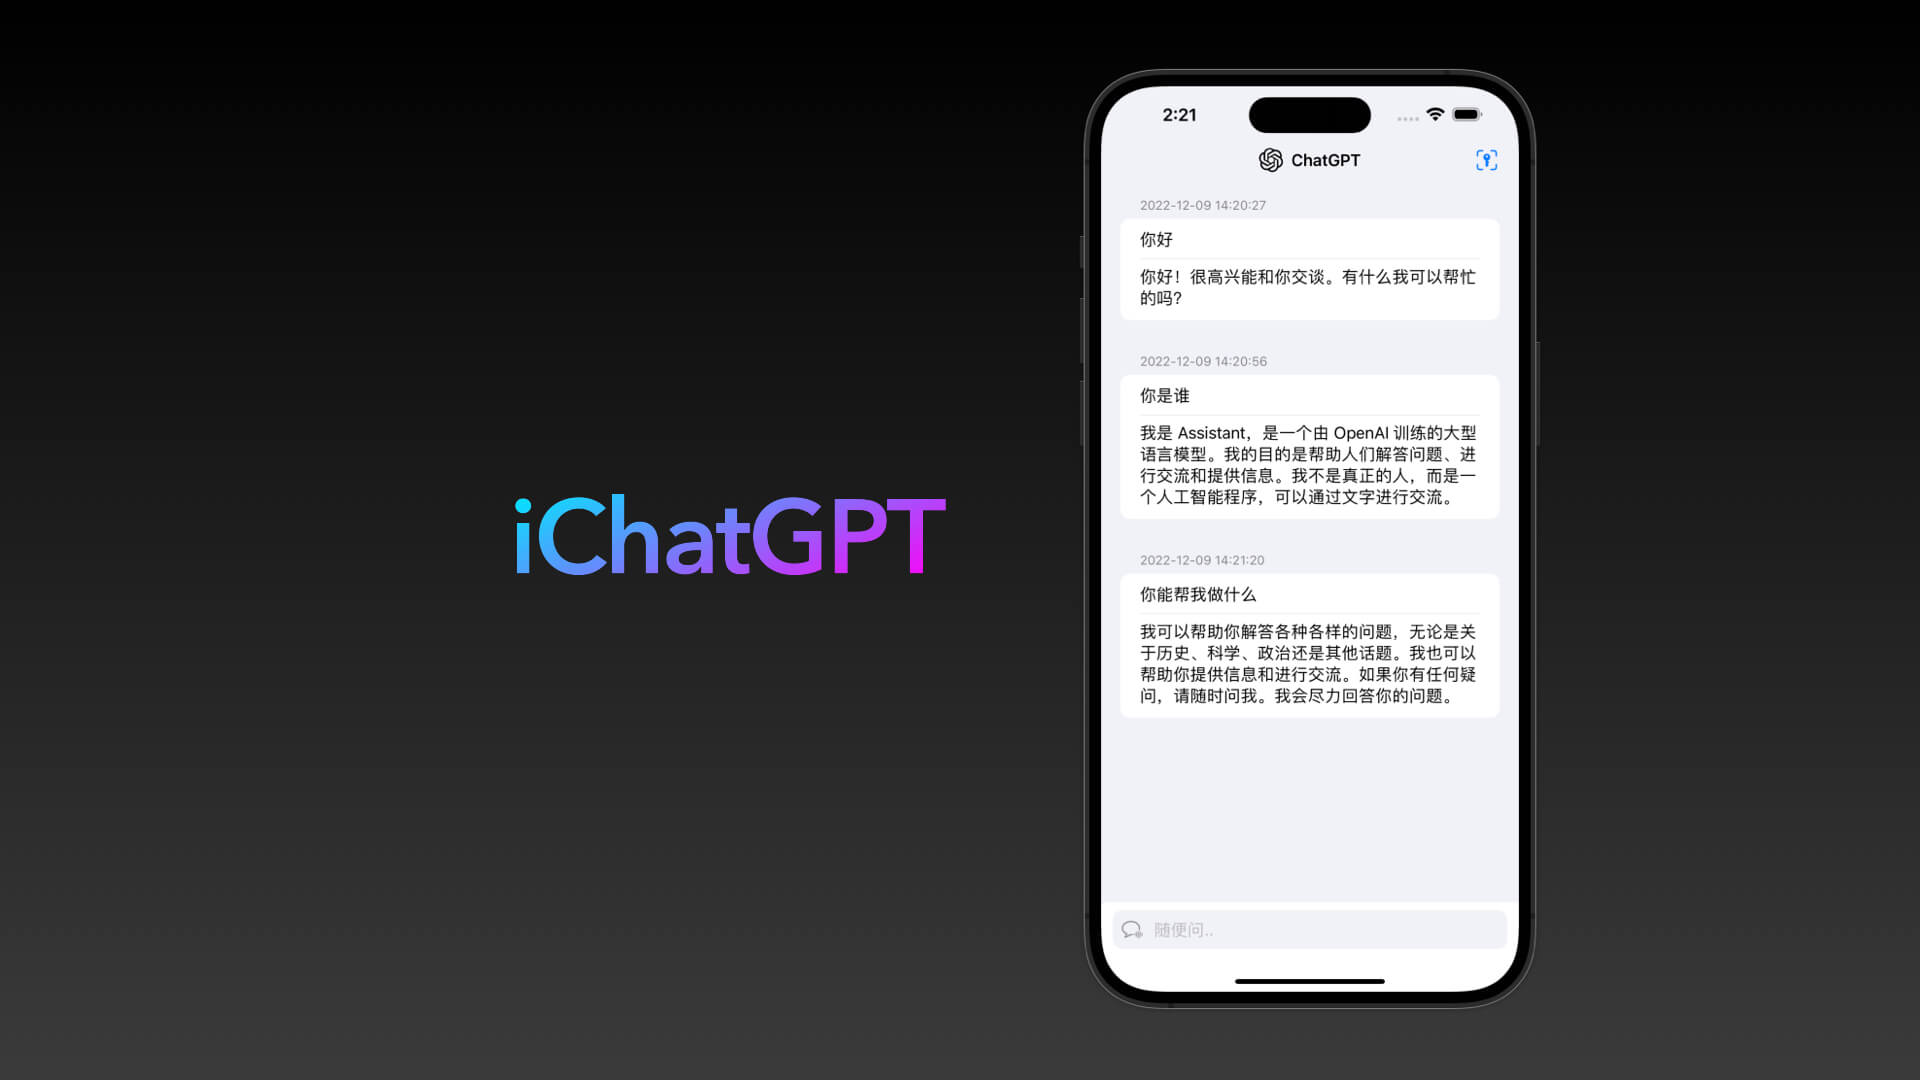
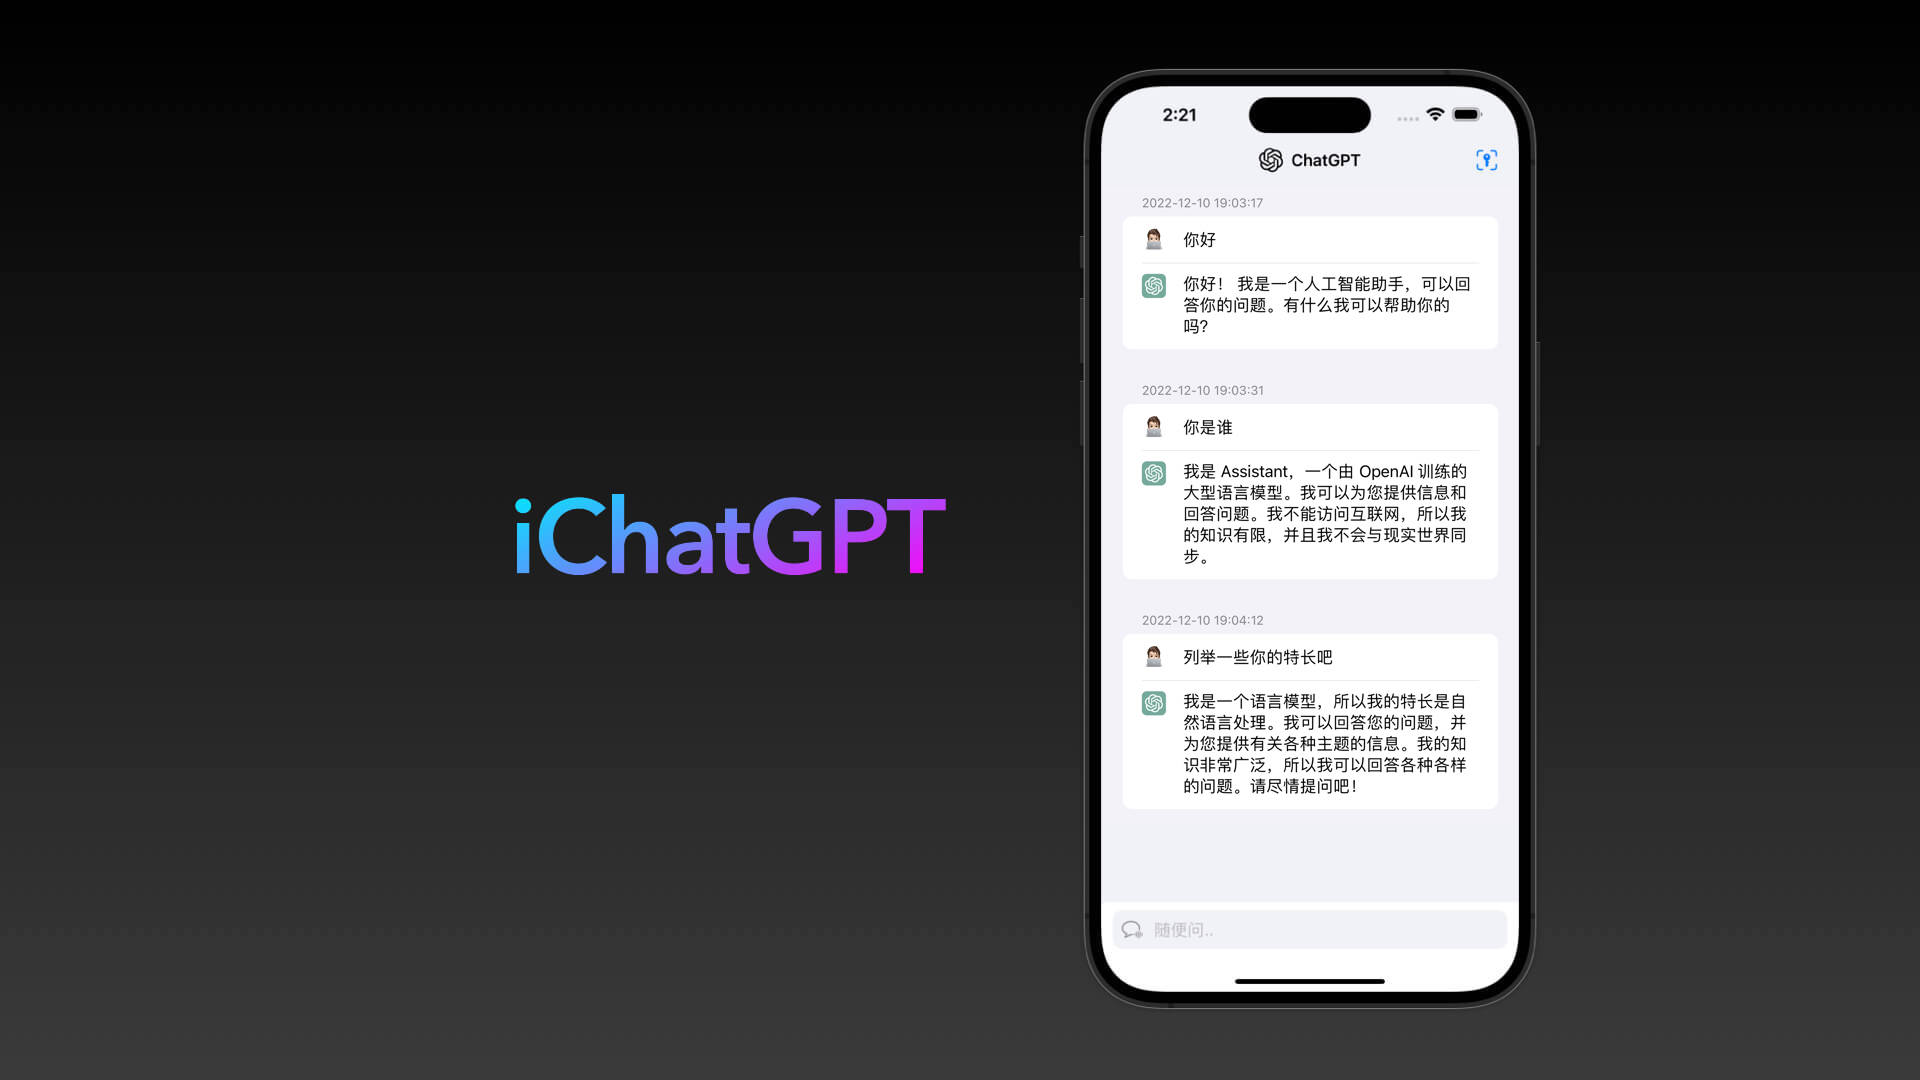
Update Readme

Changed region(s): [[0.5938, 0.1833, 0.7812, 0.7333]]

diff --git a/README.md b/README.md
@@ -1,9 +1,6 @@
 # iChatGPT
 OpenAI ChatGPT app for  iOS, iPadOS, macoS
 
-<img src="/icon.png" width="260" height:auto alt="iChatGPT app"/>
-
-
 ###  一、App 介绍
 
 <img src="screenshot/01.jpeg" width="800" height:auto alt="iChatGPT app"/>
@@ -12,7 +9,7 @@ OpenAI ChatGPT app for  iOS, iPadOS, macoS
 
 **支持功能**
 
-目前 v1.0.0，实现 ChatGPT 基本聊天功能：
+目前 v1.1.0，实现 ChatGPT 基本聊天功能：
 
 * 可以直接与 ChatGPT 对话，并且保留上下文；
 * 可以复制问题和回答内容；
@@ -27,9 +24,9 @@ OpenAI ChatGPT app for  iOS, iPadOS, macoS
 **TODO**
 
 * 保存对话
-* 显示个人头像
+* ~~显示个人头像~~
 * 代码没有高亮
-* 请求失败重试等等
+* ~~请求失败重试等~~
 * 更多功能，欢迎提 PR ~
 
 ### 二、安装说明
